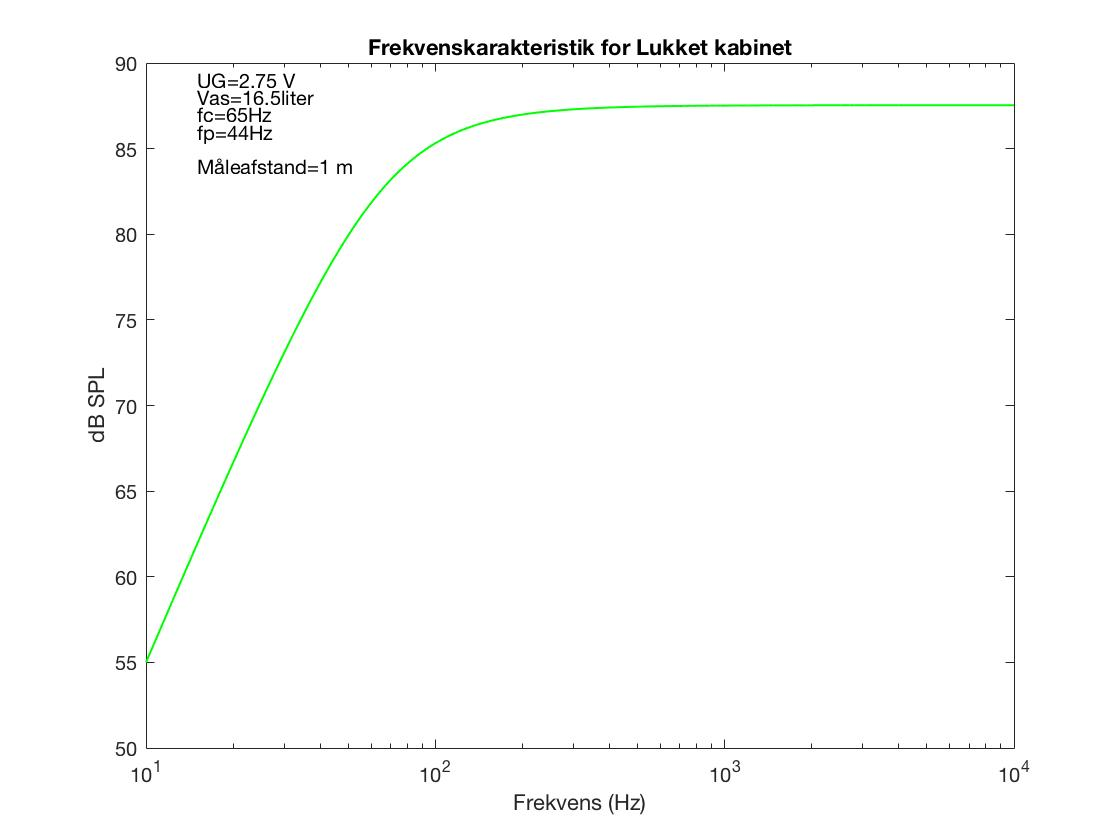
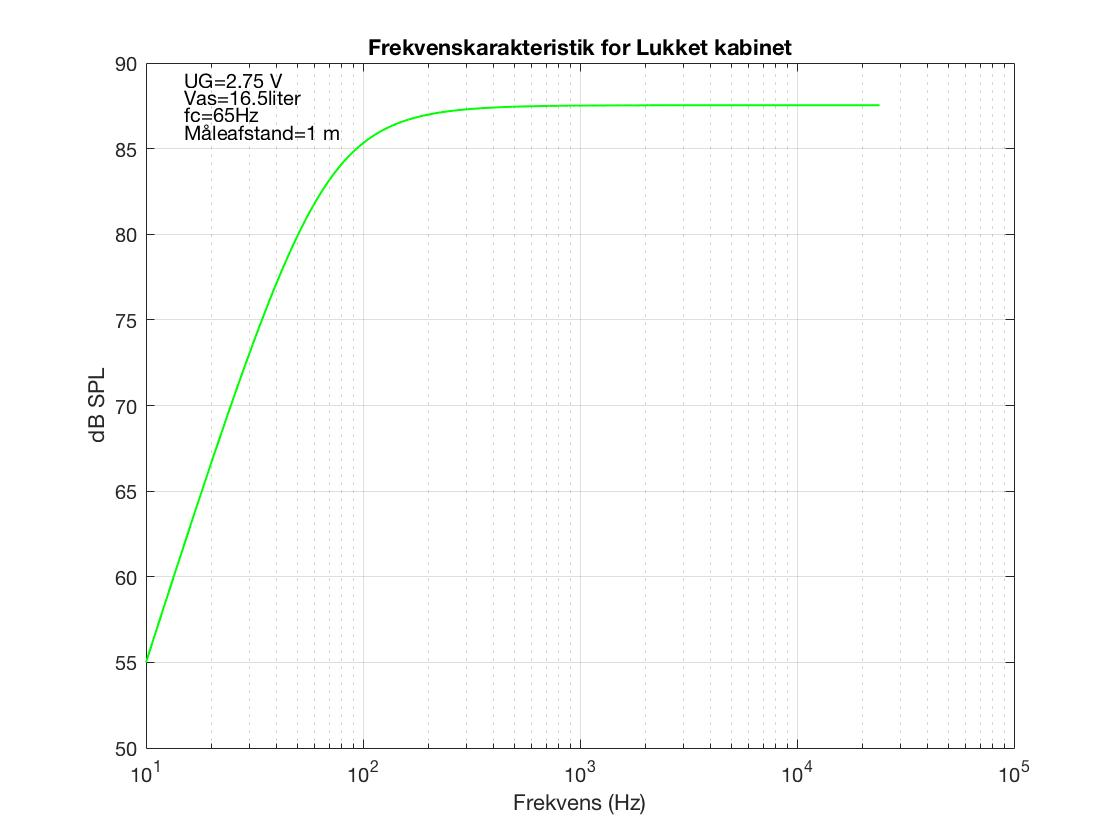
Sim osv

diff --git a/Projekt/Rapport2/Simulering/LukketKab.tex b/Projekt/Rapport2/Simulering/LukketKab.tex
@@ -1,2 +1,16 @@
 \section{Højtaleren i Lukket Kabinet}
 
+Sammenholdt med teorien for det lukkede kabinet i afsnit \ref{chapt:Teori}, kan frekvensrepsonset for projektets højtalenhed simuleres i matlab, som det ses på figur \ref{fig:simLukketKab}.
+
+De yderligere beregningsparametre omtales i næste afsnit, omhandlende basrefleks-kabinettet. 
+
+Det kan dog noteres, at under resonansfrekvensen på 65 Hz, falder kurven fast med ca. 12 dB/oktav, og har ikke noget overshoot som peak, som det kan ses gøre sig gældende i næste afsnit for basreflekskabinettet. 
+
+
+\begin{figure}[h!]
+	\centering
+	\includegraphics[width=.8\textwidth]{Pics/simLukketKab}
+	\caption{frekvensrepsons for Højtalerenheden i lukket kabinet } 
+	\label{fig:simLukketKab}
+\end{figure}
+
